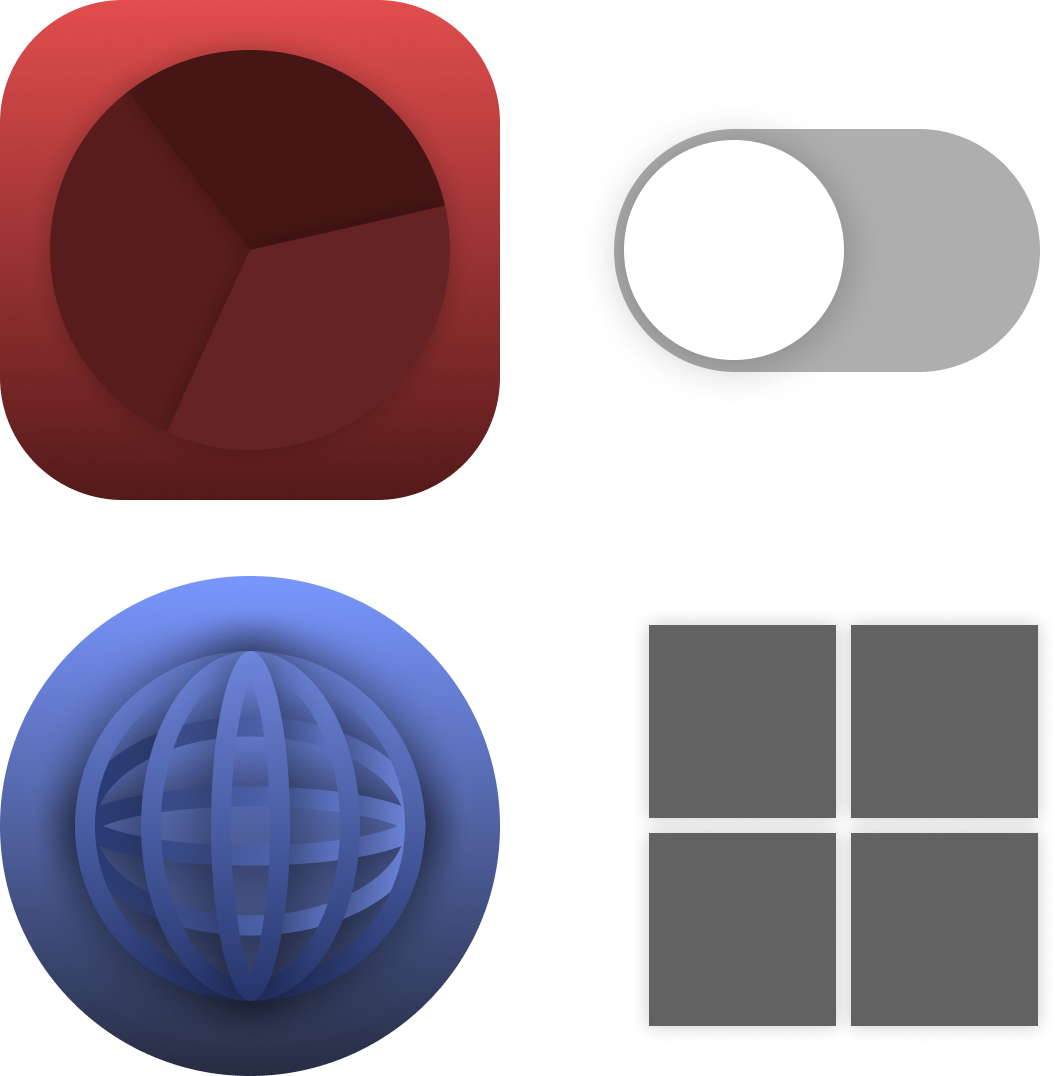
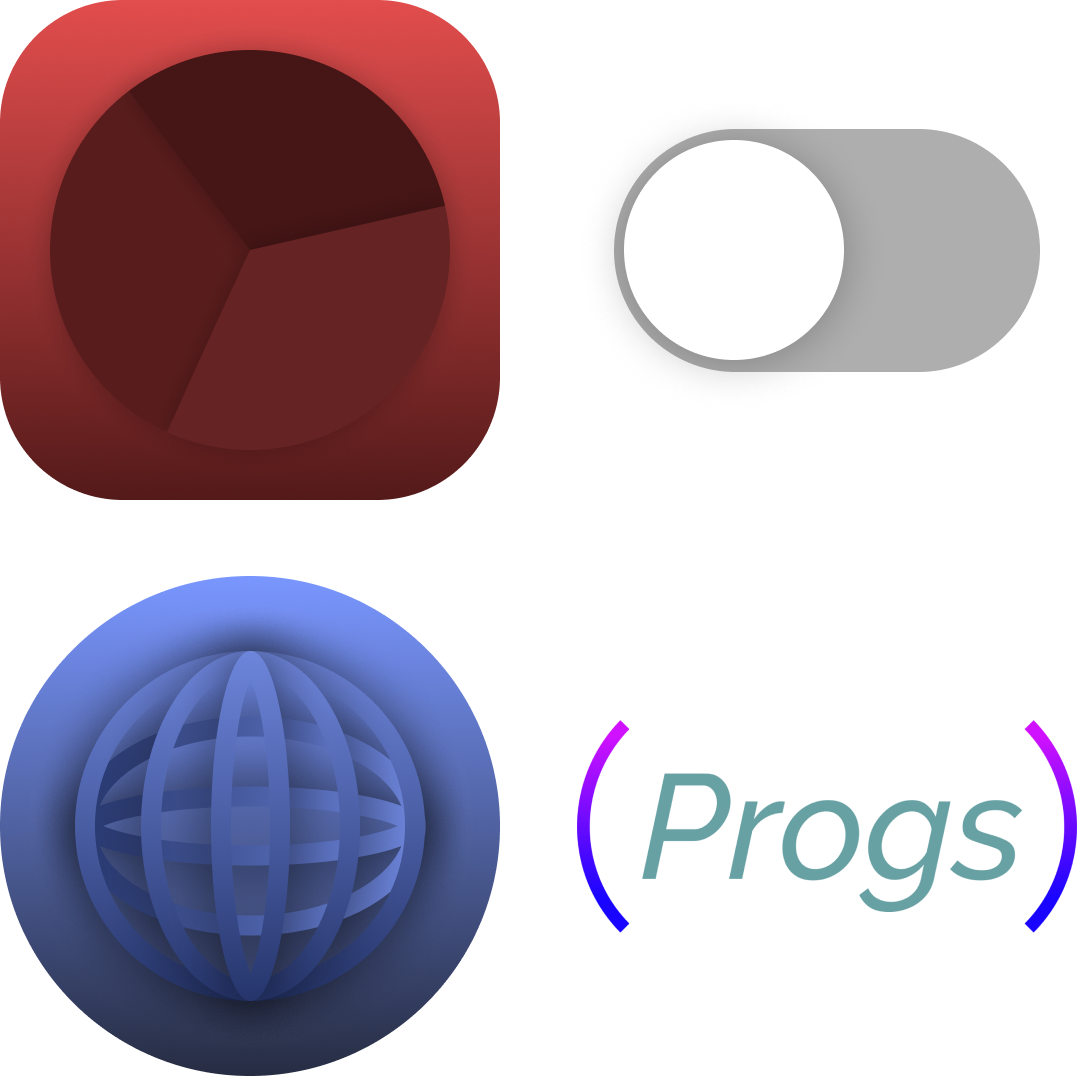
Add files via upload

diff --git a/alba_russian/progs.html b/alba_russian/progs.html
@@ -2,13 +2,130 @@
 <html lang="ru" dir="ltr">
   <head>
     <meta charset="utf-8">
-    <title>АльбаIT</title>
+    <title>Альба(Progs)</title>
+    <meta name="viewport" content="width=device-width, initial-scale=1">
+    <meta name="keywords" content="Альба">
+    <meta name="description" content="Группа компаний Альба">
+    <link rel="shortcut icon" href="smalllogo.png"/>
+    <link rel="preconnect" href="https://fonts.googleapis.com">
+    <link rel="preconnect" href="https://fonts.gstatic.com" crossorigin>
+    <link href="https://fonts.googleapis.com/css2?family=Raleway:wght@800&family=Roboto:ital,wght@0,300;0,400;1,300&display=swap" rel="stylesheet">
+    <link rel="preconnect" href="https://fonts.googleapis.com">
+    <link rel="preconnect" href="https://fonts.gstatic.com" crossorigin>
+    <link href="https://fonts.googleapis.com/css2?family=Raleway:ital,wght@0,100;0,200;0,300;0,400;0,500;0,900;1,100;1,300&display=swap" rel="stylesheet">
+      <link rel="stylesheet" href="styles.css">
   </head>
   <body>
-    <script type="text/javascript">
+    <script>
+  window.onload = function () {
+    document.body.classList.add('loaded_hiding');
+    window.setTimeout(function () {
+      document.body.classList.add('loaded');
+      document.body.classList.remove('loaded_hiding');
+    }, 500);
+  }
+  </script>
+    <div class="preloader">
+   <img class="preloader___photo" src="biglogo.png" height="200px">
+  </div>
+    <table class="HomeHeader"><td class="HomeHeaderLogo"><a href="index.html"><img src="AlbaProgsLogo.png" height="35px"></a></td></table>
+              <div class="First-Page-Title"><a class="GenTitle">Альба</a><br><a class="SubGenTitle">Группа компаний</a></div>
+
+
+            <div class="Semi_Page_Building_Block">
+              <a class="First_Page_Building_Block_GTitile">Гениальные решения. Отличный результат.</a><br>
+                <br><img src="progs_blockimg.png" class="First_Page_Building_Block_img" id="First_Page_First_Block_Image" style="max-width: 500px">
+    </div>
+    <div class="PROGS_block_webcomp"><ul class="UL_on_1block_buildpage">
+                    <li class="PROGS_block_StandartTitle"><strong>Разработка веб-сайта,</strong> для компании.</li>
+                      <ul class="Sub_UL_on_1block_buildpage">
+                        <li>от<a id="NUMB_LI"> 5.500</a> RUB | <a id="NUMB_LI">7</a> календарных дней.</li>
+                      </ul>
+                  </ul>
+
+                  <table class="progs-info">
+                    <tr>
+                    <td><strong>РАЗМЕР</strong></td><td><strong>ПОДДЕРЖКА</strong></td>
+                    </tr>
+                    <tr>
+                    <td>не более 7 страниц</td><td>комбинированная <sub><small>1</small></sub></td>
+                    </tr>
+                    <tr>
+                    <td><strong>ДОПОЛНИТЕЛЬНЫЕ УСЛУГИ</strong></td><td><strong>ДОГОВОРЕННОСТЬ</strong></td>
+                    </tr>
+                    <tr>
+                    <td>доступны <sub><small>2</small></sub></td><td>обязательства сторон</td>
+                    </tr>
+                  </table>
+</div>
+<div class="PROGS_block_webshop"><ul class="UL_on_1block_buildpage">
+                <li class="PROGS_block_StandartTitle"><strong>Разработка веб-сайта,</strong> для магазина.</li>
+                  <ul class="Sub_UL_on_1block_buildpage">
+                    <li>Проект готовится...</li>
+                  </ul>
+              </ul>
+</div>
+    <div class="PROGS_block_mobprog"><ul class="UL_on_1block_buildpage">
+                    <li class="PROGS_block_StandartTitle"><strong>Разработка мобильного приложения,</strong> для компании.</li>
+                      <ul class="Sub_UL_on_1block_buildpage">
+                        <li>от<a id="NUMB_LI"> 20.000</a> RUB | <a id="NUMB_LI">25</a> календарных дней.</li>
+                      </ul>
+                  </ul>
+
+                  <table class="progs-info">
+                    <tr>
+                    <td><strong>ПЛАТФОРМЫ</strong></td><td><strong>ПОДДЕРЖКА</strong></td>
+                    </tr>
+                    <tr>
+                    <td>iOS, Android & Windows Mobile</td><td>постоянная <sub><small>3</small></sub></td>
+                    </tr>
+                    <tr>
+                    <td><strong>ФУНКЦИОНАЛЬНОСТЬ</strong></td><td><strong>ПРОЧЕЕ</strong></td>
+                    </tr>
+                    <tr>
+                    <td>состояние, мультимедиа, не более 10 разделов <sub><small>4</small></sub></td><td>договоренность и правки <sub><small>5</small></sub></td>
+                    </tr>
+                  </table>
+    </div>
+    <div class="PROGS_block_mobshop"><ul class="UL_on_1block_buildpage">
+                    <li class="PROGS_block_StandartTitle"><strong>Разработка мобильного приложения,</strong> для магазина.</li>
+                      <ul class="Sub_UL_on_1block_buildpage">
+                        <li>Проект готовится...</li>
+                      </ul>
+                  </ul>
+    </div>
+    <div class="PROGS_block_specprog"><ul class="UL_on_1block_buildpage">
+                    <li class="PROGS_block_StandartTitle"><strong>Разработка программного обеспечения,</strong> для магазина и бизнеса.</li>
+                      <ul class="Sub_UL_on_1block_buildpage">
+                        <li>Проект готовится...</li>
+                      </ul>
+                  </ul>
+    </div>
+    <div class="footnote_container">
+
+                        <a class="progs-footnote"><sub><small>1</small></sub> поддержка по техническим вопросам доступна круглосуточно; поддержка сайта осуществляется компанией либо передается заказчику.
+                        <br><sub><small>2</small></sub> в перечень дополнительных услуг входит коррекция и корневые правки, полный перечень отправляется заказчику после совершения сделки.</a>
+                  <br><a class="progs-footnote"><sub><small>3</small></sub> поддержка по техническим вопросам доступна круглосуточно; поддержка приложения осуществляется компанией постоянно в соответствии с политикой поддержки приложений Альба-ОД(№52).
+                  <br><sub><small>4</small></sub> личный кабинет и регистрация, просмотр данных в реальном времени, возможность оплаты(только на Android) и чат поддержки.
+                  <br><sub><small>5</small></sub> договоренность: официальная, на обязательствах сторон. правки приложения осуществляются в соответствии с политикой поддержки приложений Альба-ОД(№52), их стоимость входит в тарифный план, либо оплачивается отдельно. Правки приложения назначает сам пользователь, при этом полностью участвуя в процессе.</a>
+    </div>
+    <div class="CELLAR">
+          <div id="LangBACKGROUND"><div class="LangCONTAINER"><a class="LanguageTitle">Выберите язык:</a><br><a class="SelectedLangLink">&nbsp;</a><br><a class="SelectedLangLink">Русский</a><br><a class="SelectLangLink" href="/alba/alba_ukrainian/progs.html">Українська</a><br>
+            <a class="SelectLangLink" href="/alba/alba_deutsch/progs.html">Deutsch</a><br><a class="SelectedLangLink">&nbsp;</a><br><a href="#" class="SelectLangLinkBack">Назад</a></div></div>
+              <a class="LinkToLanguageSelect" href="#LangBACKGROUND">Выберите язык...</a><br><br>
+        <div class="CELLAR-NAV"><a href="index.html" id="CEL-TDN">На главную</a>
+          <a id="CEL-CUT"> | </a><a href="/alba/alba_russian/building.html" id="CEL-TDN">Строительство жилых кварталов</a>
+          <a id="CEL-CUT"> | </a><a href="/ru" id="CEL-TDN">Сайт сети пиццерий "Оливер"</a>
+          <a id="CEL-CUT"> | </a><a href="/alba/alba_russian/progs.html" id="CEL-TDN">Разработка программного обеспечения и веб-ресурсов</a>
+          <a id="CEL-CUT"> | </a><a href="/alba/alba_russian/updating.html" id="CEL-TDN">Партнерство с Альба</a>
+          <a id="CEL-CUT"> | </a><a href="/alba/alba_russian/updating.html" id="CEL-TDN">Юридическая информация</a>
+          <a id="CEL-CUT"> | </a><a href="/alba/alba_russian/updating.html" id="CEL-TDN">Политика конфиденциальности</a></div><br>
+        <a class="CELLAR-END-TEXT">Альба, ООО. Все права защищены.</a>
+    </div>
+  <!--  <script type="text/javascript">
 setTimeout(function(){
 location="https://hi-oliver.github.io/alba/alba_russian/updating.html";
 }, 1000);
-</script>
+</script> -->
   </body>
 </html>

diff --git a/alba_russian/styles.css b/alba_russian/styles.css
@@ -429,3 +429,107 @@ text-align: center;
   font-size: 12px;
   margin: auto;
 }
+.progs-info {
+  text-align: center;
+  font-family: 'Roboto', sans-serif;
+  color: #fff;
+  opacity: 0.7;
+  text-align: center;
+  font-size: 12px;
+  margin: auto;
+}
+.progs-footnote {
+  text-align: center;
+  font-family: 'Roboto', sans-serif;
+  color: #fff;
+  opacity: 0.5;
+  text-align: center;
+  font-size: 11px;
+  margin: auto;
+}
+.footnote_container {
+  margin-left: 10%;
+  margin-right: 10%;
+  margin-bottom: 10px;
+}
+.PROGS_block_webcomp {
+    background-image: url(progsPage_imgG.png);
+  background-size: contain;
+  background-clip: border-box;
+  background-position: center;
+  background-color: #202020;
+  position: relative;
+  text-align: center;
+  margin: auto;
+  border-radius: 15px;
+  max-width: 370px;
+  padding-top: 5px;
+  padding-bottom: 5px;
+  margin-bottom: 10px;
+}
+.PROGS_block_webshop {
+    background-image: url(progsPage_imgG.png);
+  background-size: contain;
+  background-clip: border-box;
+  background-position: center;
+  background-color: #202020;
+  opacity: 0.2;
+  position: relative;
+  text-align: center;
+  margin: auto;
+  border-radius: 15px;
+  max-width: 370px;
+  padding-top: 5px;
+  padding-bottom: 5px;
+  margin-bottom: 10px;
+}
+.PROGS_block_mobshop {
+    background-image: url(progsPage_imgB.png);
+  background-size: contain;
+  background-clip: border-box;
+  background-position: center;
+  background-color: #202020;
+  opacity: 0.2;
+  position: relative;
+  text-align: center;
+  margin: auto;
+  border-radius: 15px;
+  max-width: 370px;
+  padding-top: 5px;
+  padding-bottom: 5px;
+  margin-bottom: 10px;
+}
+.PROGS_block_specprog {
+  background-image: url(progsPage_imgOS.png);
+  background-size: contain;
+  background-clip: border-box;
+  background-position: center;
+  background-color: #202020;
+  opacity: 0.2;
+  position: relative;
+  text-align: center;
+  margin: auto;
+  border-radius: 15px;
+  max-width: 370px;
+  padding-top: 5px;
+  padding-bottom: 5px;
+  margin-bottom: 10px;
+}
+.PROGS_block_mobprog {
+  background-image: url(progsPage_imgB.png);
+  background-size: contain;
+  background-clip: border-box;
+  background-position: center;
+  background-color: #202020;
+  position: relative;
+  text-align: center;
+  margin: auto;
+  border-radius: 15px;
+  max-width: 370px;
+  padding-top: 5px;
+  padding-bottom: 5px;
+  margin-bottom: 10px;
+}
+.PROGS_block_StandartTitle {
+  color: #fff;
+}
